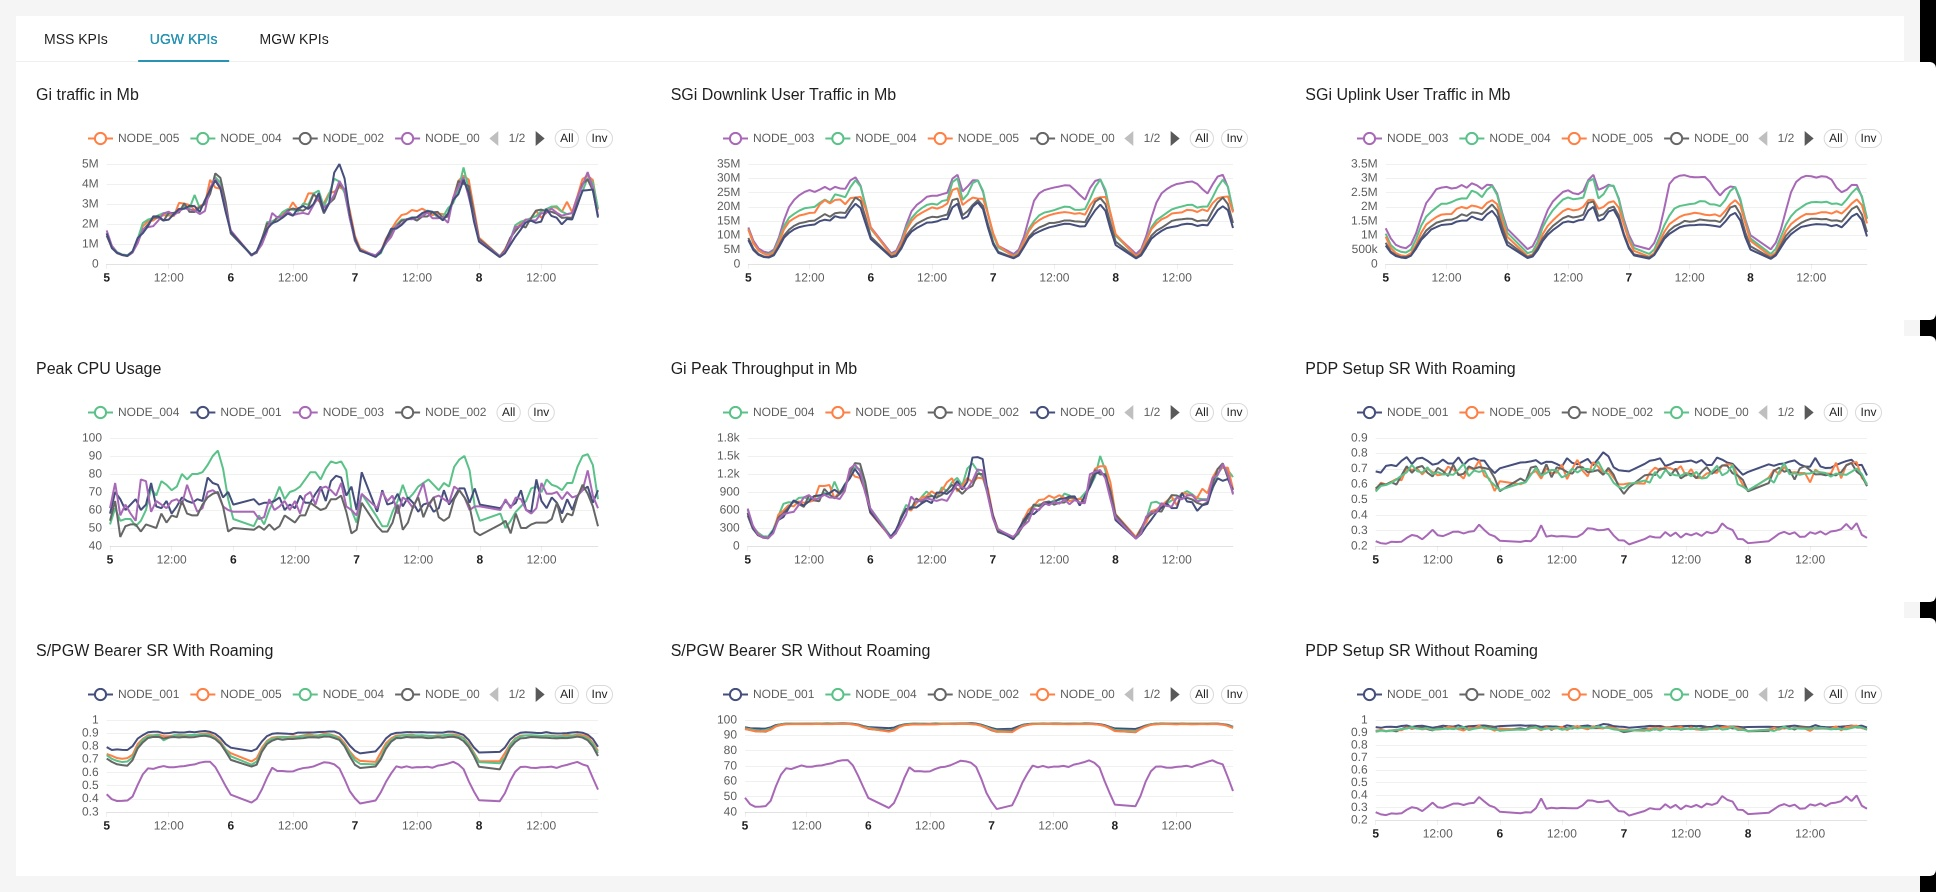
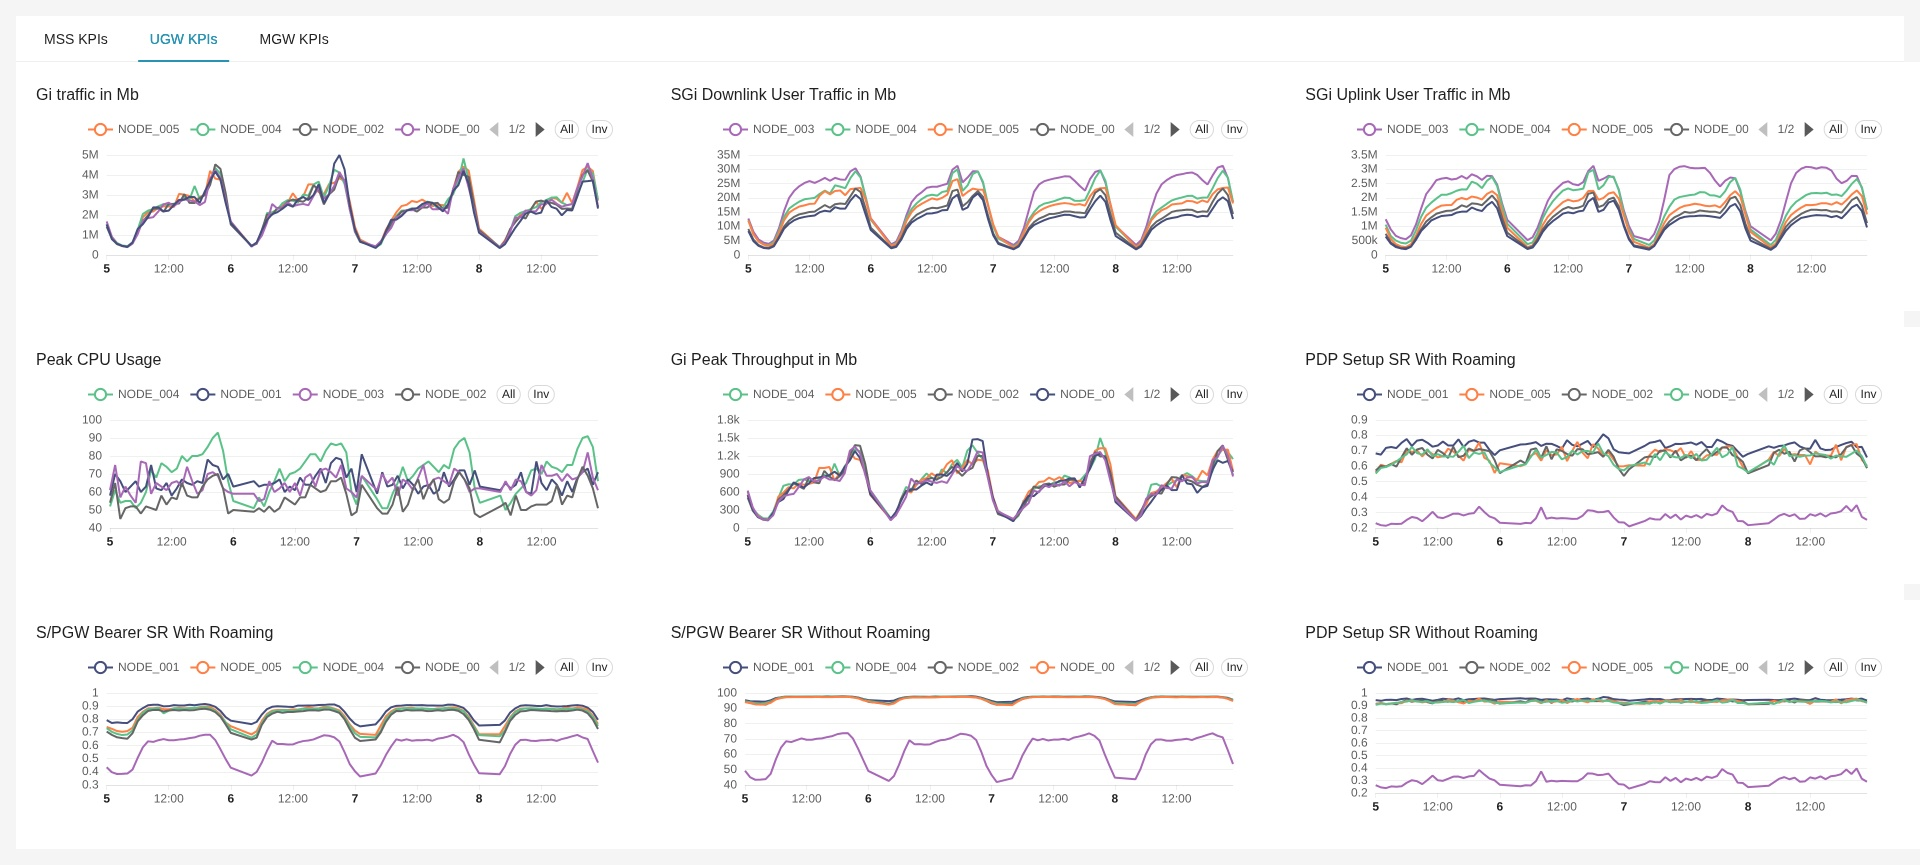
report improvement

diff --git a/main.py b/main.py
@@ -493,6 +493,94 @@ def _wait_for_render(page):
     page.wait_for_timeout(800)
 
 
+def _hide_scrollbars(page):
+    """
+    Inject CSS to hide scrollbars on every scrollable element before
+    "Download as Image" runs. Superset's image export (html2canvas) doesn't
+    render Chromium's overlay scrollbar thumbs correctly — they show up as
+    solid black blocks along the right edge of the exported PNG. Hiding
+    them (width/height still work; only the visual thumb is suppressed)
+    removes the artifact without affecting layout.
+    """
+    page.add_style_tag(
+        content="""
+        *{scrollbar-width:none !important;}
+        *::-webkit-scrollbar{width:0 !important;height:0 !important;display:none !important;}
+        """
+    )
+
+
+def _fit_viewport_to_content(page):
+    """
+    Widen the viewport to the dashboard's actual content width before
+    "Download as Image" captures it. The browser context opens at a fixed
+    1920x1080 viewport, but a chart row can be wider than that; when it
+    is, Superset renders it as a horizontally-scrollable carousel with a
+    semi-opaque black "scroll right" arrow pinned to the row's right
+    edge to hint there's more off-screen. Since the export capture only
+    grabs the current viewport, that arrow (and the cut-off chart behind
+    it) end up baked into the PNG as solid black blocks. Sizing the
+    viewport to scrollWidth/scrollHeight first means nothing overflows,
+    so Superset never shows the arrow and every row is captured in full.
+    """
+    try:
+        size = page.evaluate(
+            "() => ({w: document.documentElement.scrollWidth, h: document.documentElement.scrollHeight})"
+        )
+        page.set_viewport_size({"width": max(size["w"], 1920), "height": max(size["h"], 1080)})
+        page.wait_for_timeout(500)
+    except Exception as e:
+        log.warning("Could not fit viewport to content: %s", e)
+
+
+def _hide_row_hover_controls(page):
+    """
+    Remove Superset's per-row ".header-controls" buttons (the row-level
+    "..." menu used in edit mode to recolor/delete a row) before
+    "Download as Image" captures the page. They stay mounted in the DOM
+    at all times, just off-screen/invisible via hover-only CSS in view
+    mode — but Superset's own image-export routine force-shows hidden
+    UI while capturing (same as it does for inactive tabpanels, see
+    _select_tab's extra-tab capture above), which un-hides these too and
+    bakes them in as a solid black block pinned to each row's right
+    edge — exactly the blocks reported in exported PNGs. Setting
+    display:none isn't enough since that force-show routine overrides
+    it; removing the elements from the DOM means there's nothing left
+    for it to force-show. They're edit-mode-only controls, irrelevant to
+    an exported image, so removing them is safe.
+    """
+    try:
+        count = page.evaluate(
+            """
+            () => {
+                const els = document.querySelectorAll('.header-controls');
+                const n = els.length;
+                els.forEach(el => el.remove());
+                return n;
+            }
+            """
+        )
+        log.info("Removed %d row-hover control(s) before image capture.", count)
+    except Exception as e:
+        log.warning("Could not hide row-hover controls: %s", e)
+
+
+def _wait_for_icon_fonts(page):
+    """
+    Wait for all webfonts (Ant Design's icon font in particular) to finish
+    loading before the image capture fires. Superset's chart/row hover
+    icons (expand, "...", etc.) are icon-font glyphs; if the capture runs
+    before that font has loaded, each glyph paints as a solid black
+    "tofu" box instead of the icon — the black rounded blocks seen at the
+    right edge of exported PNGs, one per chart row.
+    """
+    try:
+        page.evaluate("() => document.fonts.ready")
+        page.wait_for_timeout(500)
+    except Exception:
+        pass
+
+
 def _open_download_submenu(page):
     """
     Open the dashboard '...' menu and hover over Download.
@@ -598,7 +686,37 @@ def _trigger_download(page, export_format, output_dir, filename_hint="export"):
     output_path = os.path.join(output_dir, filename)
     download.save_as(output_path)
     log.info("Downloaded: %s", output_path)
+
+    if export_format == "png":
+        _crop_export_artifact(page, output_path)
+
     return output_path
+
+
+def _crop_export_artifact(page, image_path):
+    """
+    Superset's "Download as Image" pads the PNG a fixed ~16px wider than
+    the actual browser viewport, with no real content in that strip (we
+    verified nothing in the DOM ever sits past the viewport edge — the
+    page never overflows horizontally). That dead strip renders as solid
+    black wherever it overlaps a chart row, showing up as black blocks
+    along the right edge of the exported image. Since content never
+    exceeds the viewport width, cropping the PNG back down to it removes
+    the artifact without losing anything real.
+    """
+    try:
+        viewport = page.viewport_size
+        if not viewport:
+            return
+        with Image.open(image_path) as img:
+            if img.width > viewport["width"]:
+                img.crop((0, 0, viewport["width"], img.height)).save(image_path)
+                log.info(
+                    "Cropped export artifact: %dpx -> %dpx wide (%s)",
+                    img.width, viewport["width"], image_path,
+                )
+    except Exception as e:
+        log.warning("Could not crop export artifact from %s: %s", image_path, e)
 
 def _safe_filename(text: str) -> str:
     """Strip characters that are unsafe in filenames."""
@@ -831,6 +949,10 @@ def _do_export(dashboard_id, chart_id, export_formats: list, theme="light", extr
 
         if "png" in export_formats:
             log.info("Triggering image download...")
+            _fit_viewport_to_content(page)
+            _hide_scrollbars(page)
+            _wait_for_icon_fonts(page)
+            _hide_row_hover_controls(page)
             _open_download_submenu(page)
             png_path = _trigger_download(
                 page, "png", UPLOAD_DIR, filename_hint=f"dashboard_{target_id}"
@@ -875,6 +997,10 @@ def _do_export(dashboard_id, chart_id, export_formats: list, theme="light", extr
                     }"""
                 )
                 log.info("Removed %d inactive tab panel(s) before capture: %s", len(removed), removed)
+                _fit_viewport_to_content(tab_page)
+                _hide_scrollbars(tab_page)
+                _wait_for_icon_fonts(tab_page)
+                _hide_row_hover_controls(tab_page)
                 _open_download_submenu(tab_page)
                 tab_png_path = _trigger_download(
                     tab_page, "png", UPLOAD_DIR,
